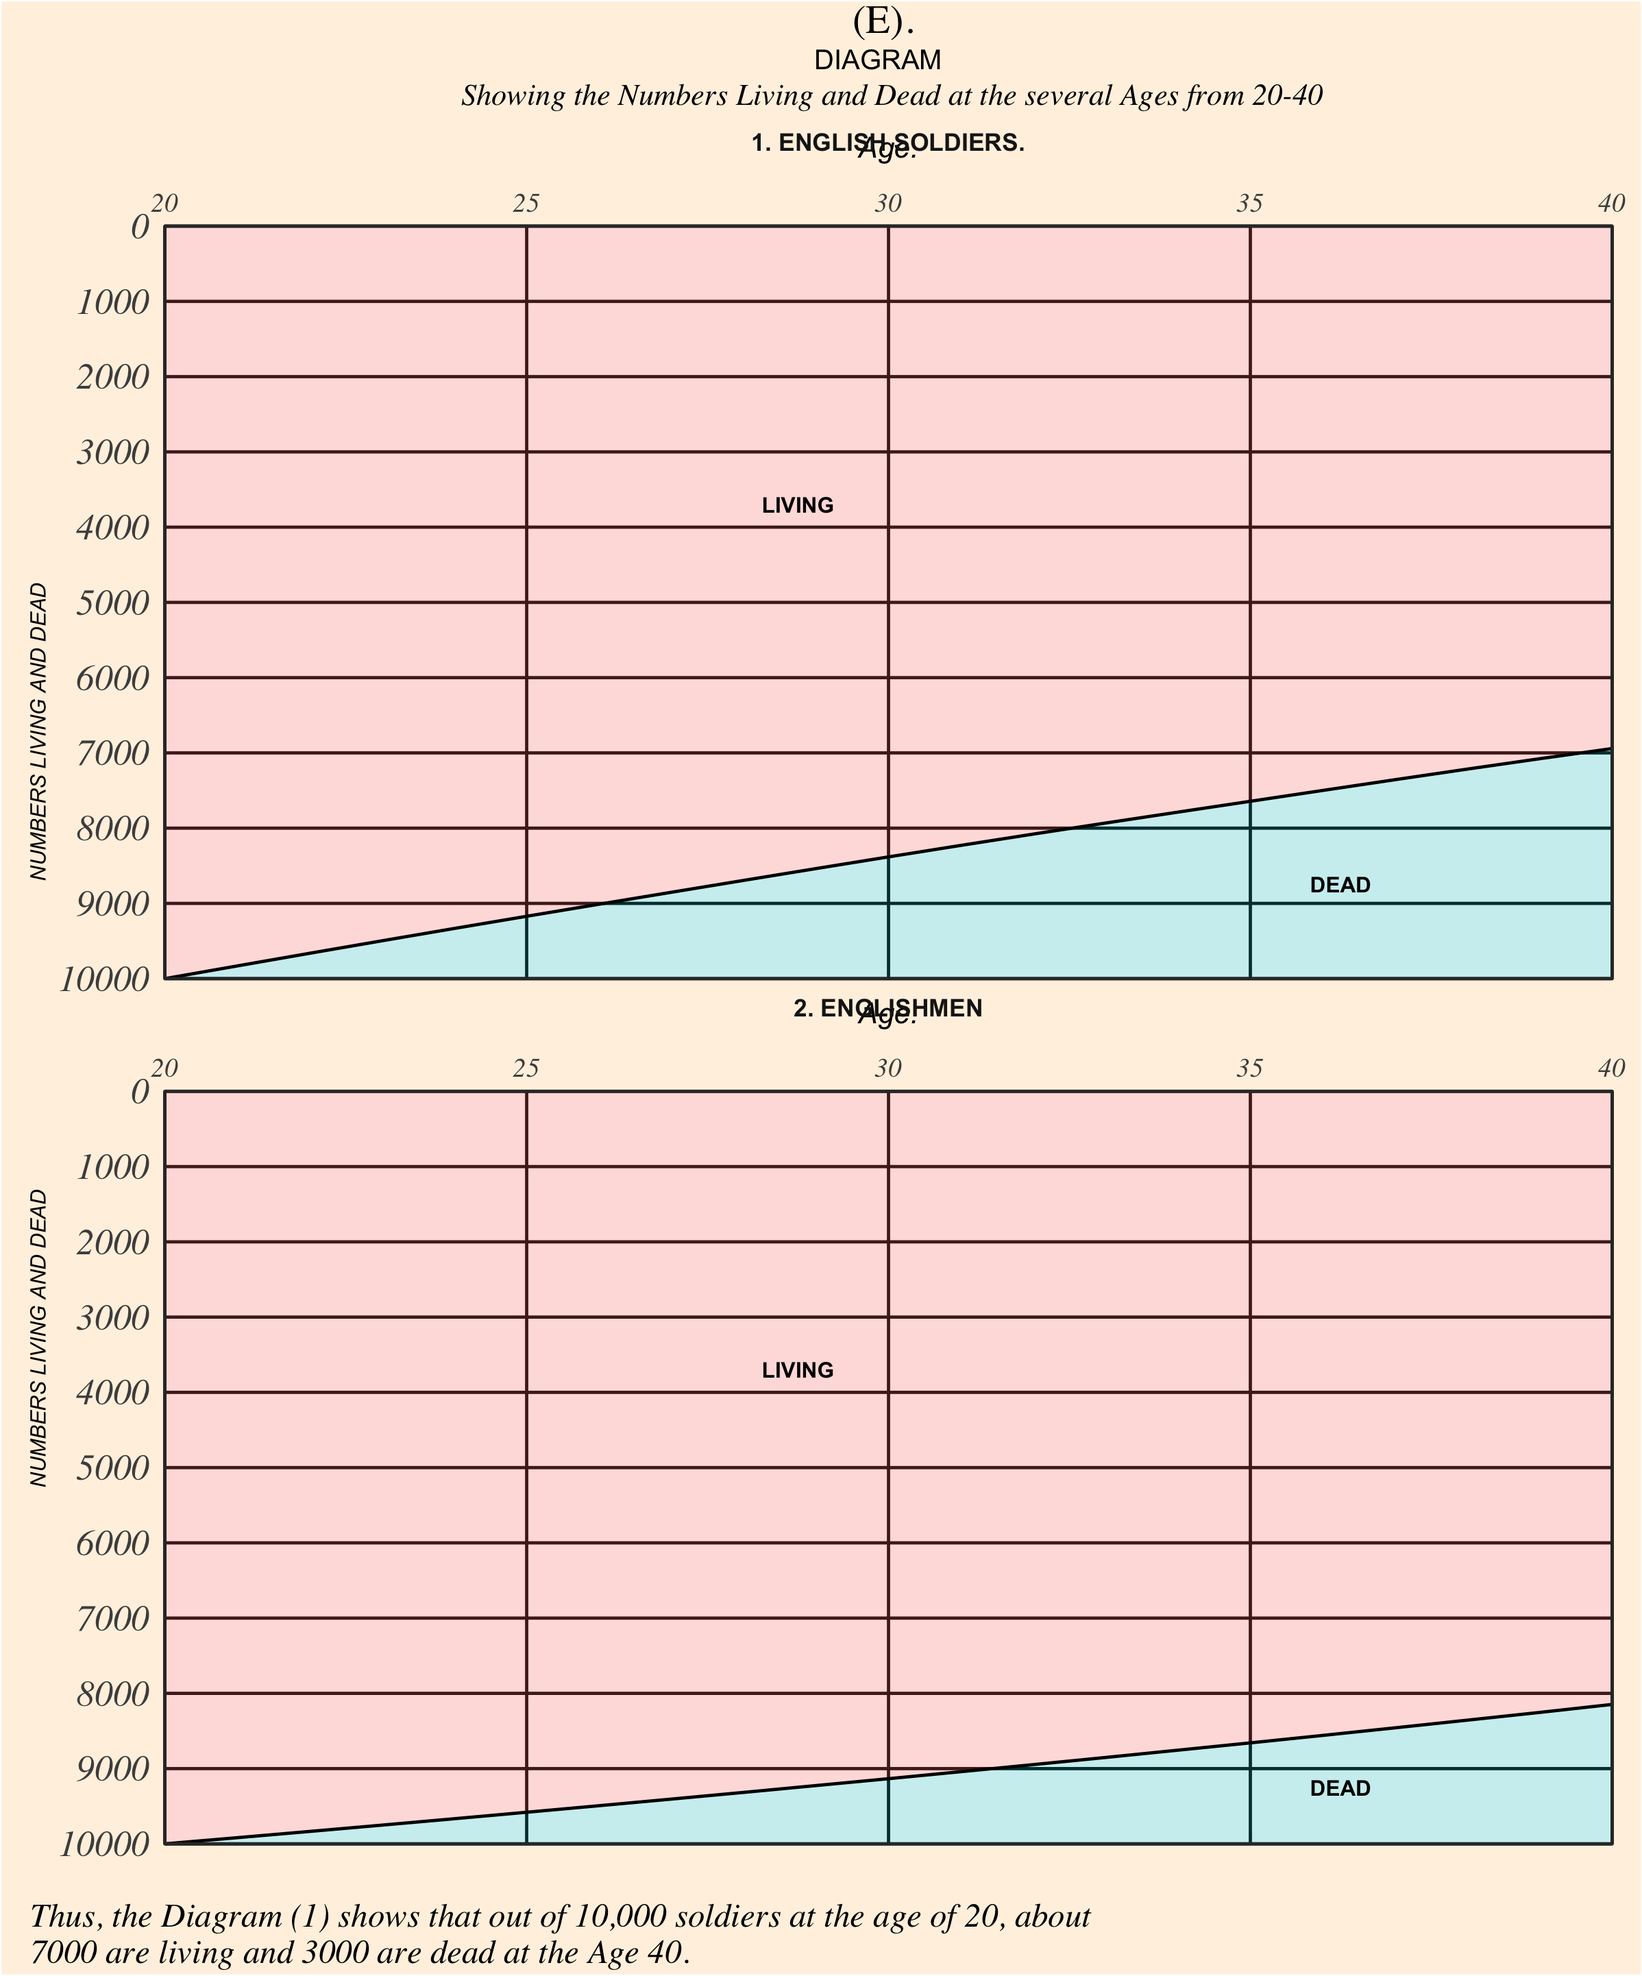
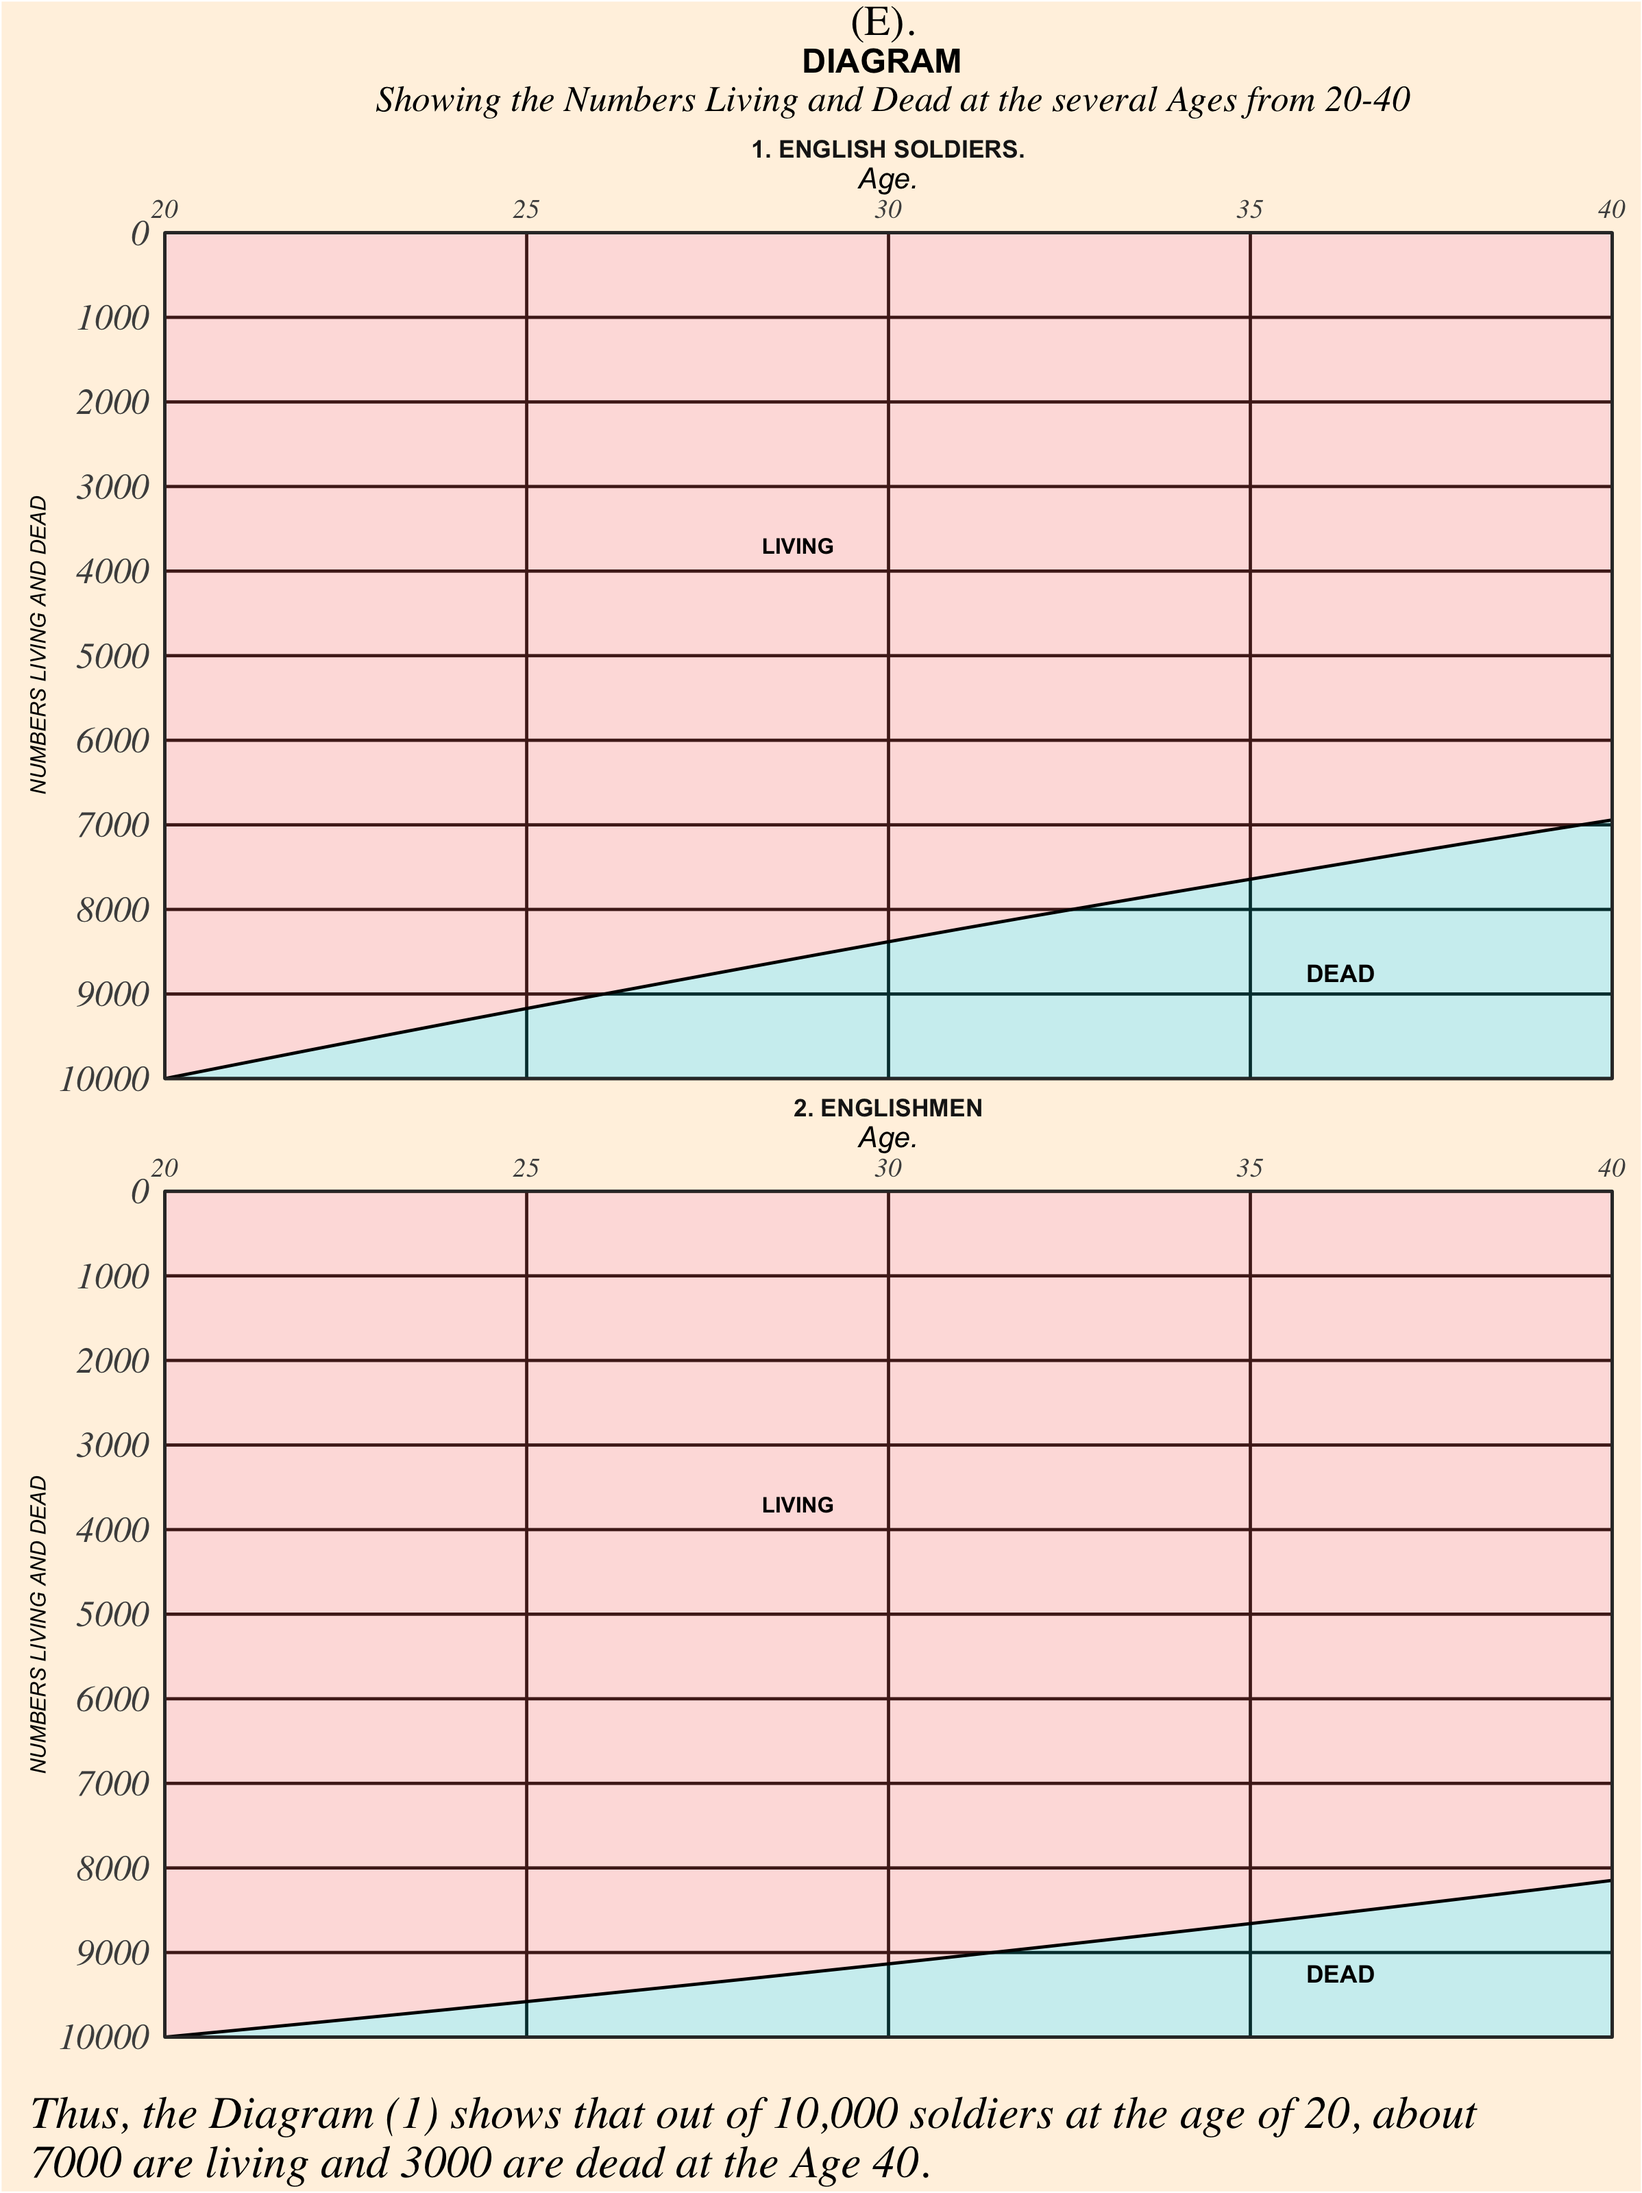
fixed text in area plot

Changed region(s): [[0.0, 0.0, 0.9883, 0.999], [0.1235, 0.2185, 0.9883, 0.3434], [0.1235, 0.6556, 0.9574, 0.7492]]

diff --git a/README.md b/README.md
@@ -22,3 +22,8 @@ The code to create the line chart is in [this script](https://github.com/edwardg
 
 ## 3 Nightingale's Area Diagrams
 
+Original [here](https://archive.org/details/mortalityofbriti00lond/page/n39/mode/2up). Certainly favorite to recreate. Really easy data manipulation from the [life table](https://github.com/edwardgunning/FlorenceNightingale/blob/master/EnglishMortalityData.xlsx) to create this:
+
+![](AreaChart.png)
+
+
